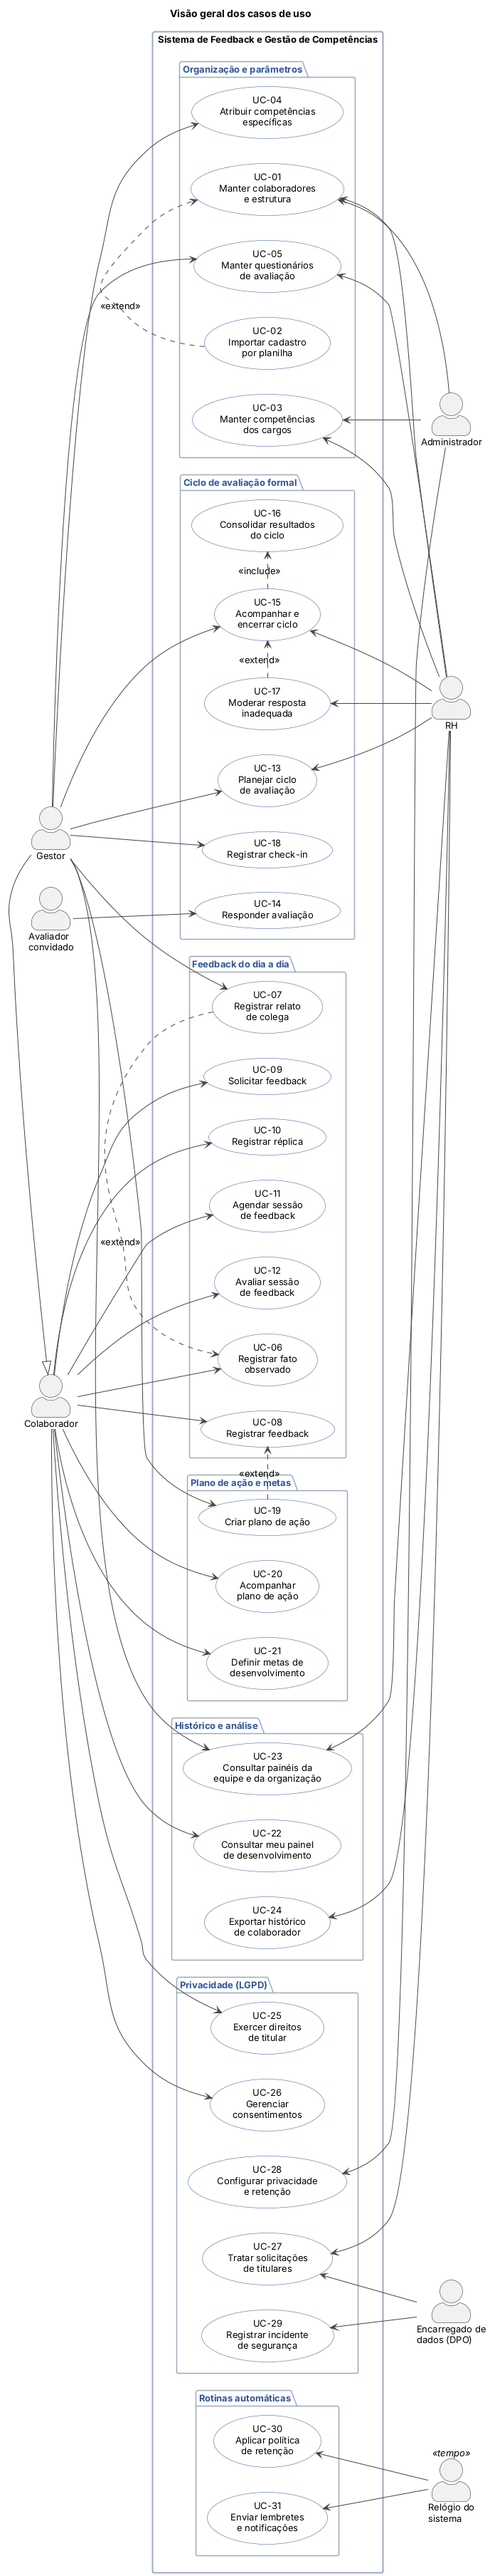
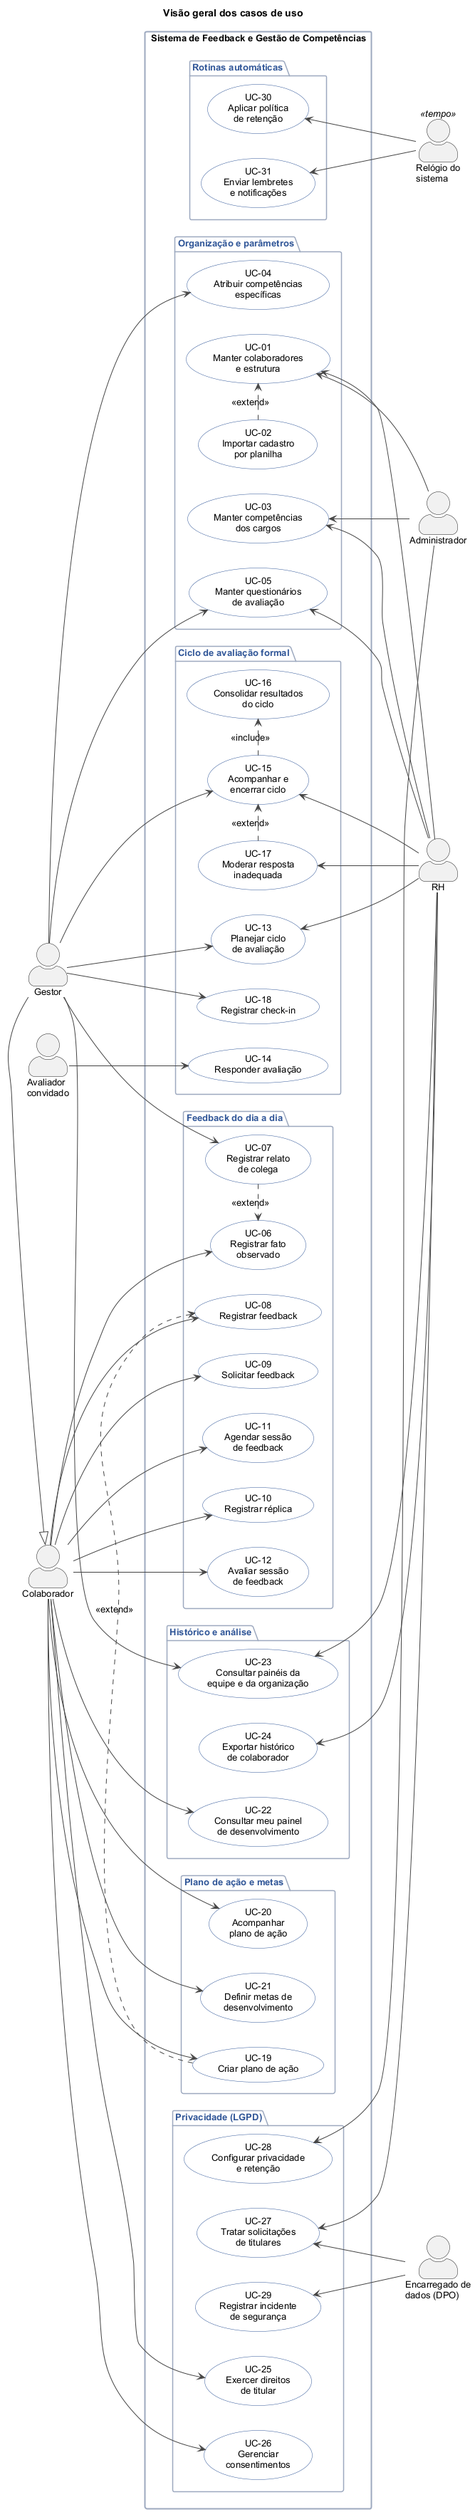
docs: imagens do diagrama de casos de uso geradas a partir do .puml atual (#55)

diff --git a/docs/Revisao_Final.md b/docs/Revisao_Final.md
@@ -188,7 +188,7 @@ Estes pontos dependem de ferramentas fora do Git e não alteram nenhum requisito
 | 1 | Anotações de 9 telas no Figma citam requisitos diferentes dos da lista geral | Corrigidas na matriz (seção 4.2), que é a referência. A atualização das anotações é feita no arquivo do Figma |
 | 2 | Casos de uso sem tela no protótipo, entre eles UC-03, UC-04 e UC-28, que atendem requisitos Must | Registrados na matriz (seções 4.1 e 8). Os requisitos continuam rastreados pelo caso de uso e pela entidade |
 | 3 | Imagens exportadas do modelo ER (pasta `img/`) | Mostram a versão 1.0. Os diagramas Mermaid da página do modelo, renderizados pelo GitHub, são a fonte e já estão na versão 1.1 |
-| 4 | Imagens PNG e SVG da visão geral e da área "Plano de ação e metas" do diagrama de casos de uso | Mostram a associação antiga Gestor → UC-19. O arquivo `.puml`, que é a fonte, já liga o UC-19 ao Colaborador. As imagens precisam ser geradas de novo pelo comando da seção 6 do diagrama |
+| 4 | Imagens PNG e SVG do diagrama de casos de uso | Resolvido em 18/11/2026: todas as imagens foram geradas de novo a partir do `.puml`, e o UC-19 aparece ligado ao Colaborador |
 | 5 | PDFs exportados do Figma, usados para numerar as telas `T-xx` na matriz | Não estão no repositório. A coluna "Pág. do PDF" da matriz (seção 4.1) não pode ser conferida por quem não tem os PDFs |
 
 ---

diff --git a/docs/modelagem/casos-de-uso/Diagrama_Casos_de_Uso.md b/docs/modelagem/casos-de-uso/Diagrama_Casos_de_Uso.md
@@ -165,7 +165,7 @@ Outras ligações entre casos de uso existem, mas não são `include` nem `exten
 
 ## 6. Diagramas
 
-As imagens são geradas pelo arquivo [Diagrama_Casos_de_Uso.puml](Diagrama_Casos_de_Uso.puml). Para alterar um diagrama, edite esse arquivo e gere as imagens de novo:
+As imagens são geradas pelo arquivo [Diagrama_Casos_de_Uso.puml](Diagrama_Casos_de_Uso.puml), em PNG e em SVG (o SVG pode ser ampliado sem perder qualidade). Todas foram geradas de novo em 18/11/2026, a partir da versão atual do `.puml`. Para alterar um diagrama, edite esse arquivo e gere as imagens de novo:
 
 ```bash
 java -jar plantuml.jar -charset UTF-8 -tpng Diagrama_Casos_de_Uso.puml
@@ -191,7 +191,7 @@ Todos os atores e casos de uso em um único diagrama. A versão em [SVG](UC_00_V
 
 ### 6.5 Plano de ação e metas
 
-UC-08, em destaque, aparece apenas para mostrar o ponto de extensão do plano de ação. As imagens desta seção e da visão geral (6.1) ainda não foram geradas de novo e mostram a associação antiga Gestor → UC-19. No arquivo `.puml`, o UC-19 já está ligado ao Colaborador, de quem o Gestor herda (seção 4.4).
+UC-08, em destaque, aparece apenas para mostrar o ponto de extensão do plano de ação. O UC-19 está ligado ao Colaborador, de quem o Gestor herda (seção 4.4).
 
 ![Plano de ação e metas](UC_04_Plano_e_Metas.png)
 
